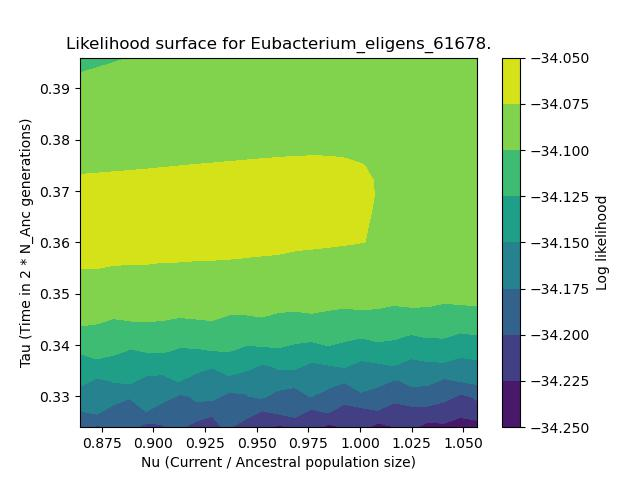
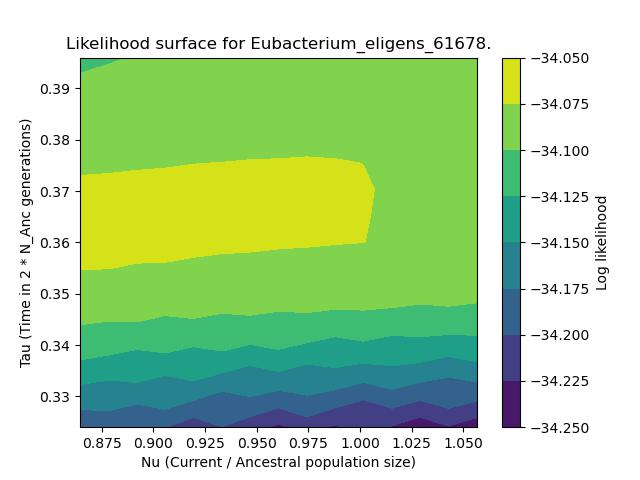
E. eligens

diff --git a/Scripts/plot_likelihood.py b/Scripts/plot_likelihood.py
@@ -464,12 +464,16 @@ class PlotLikelihood():
                 x = input_nu  # Initial x value
                 y = input_tau  # Initial y value
 
-                npts = 25
+                npts = 15
 
-                x_range = numpy.linspace(x * 0.7, x * 1.3, npts)
-                # x_range = numpy.linspace(1.6, 2.4, npts)
-                y_range = numpy.linspace(y * 0.9, y * 1.3, npts)
-                # y_range = numpy.linspace(0.98, 1.04, npts)
+                # B. cellulosilyticus
+                # x_range = numpy.linspace(x * 0.7, x * 1.3, npts)
+                # y_range = numpy.linspace(y  * 0.9, y * 1.3, npts)
+
+                # E. eligens
+                x_range = numpy.linspace(x * 0.9, x * 1.1, npts)
+                y_range = numpy.linspace(y * 0.9, y * 1.1, npts)
+                
 
                 X, Y = numpy.meshgrid(x_range, y_range)
 
